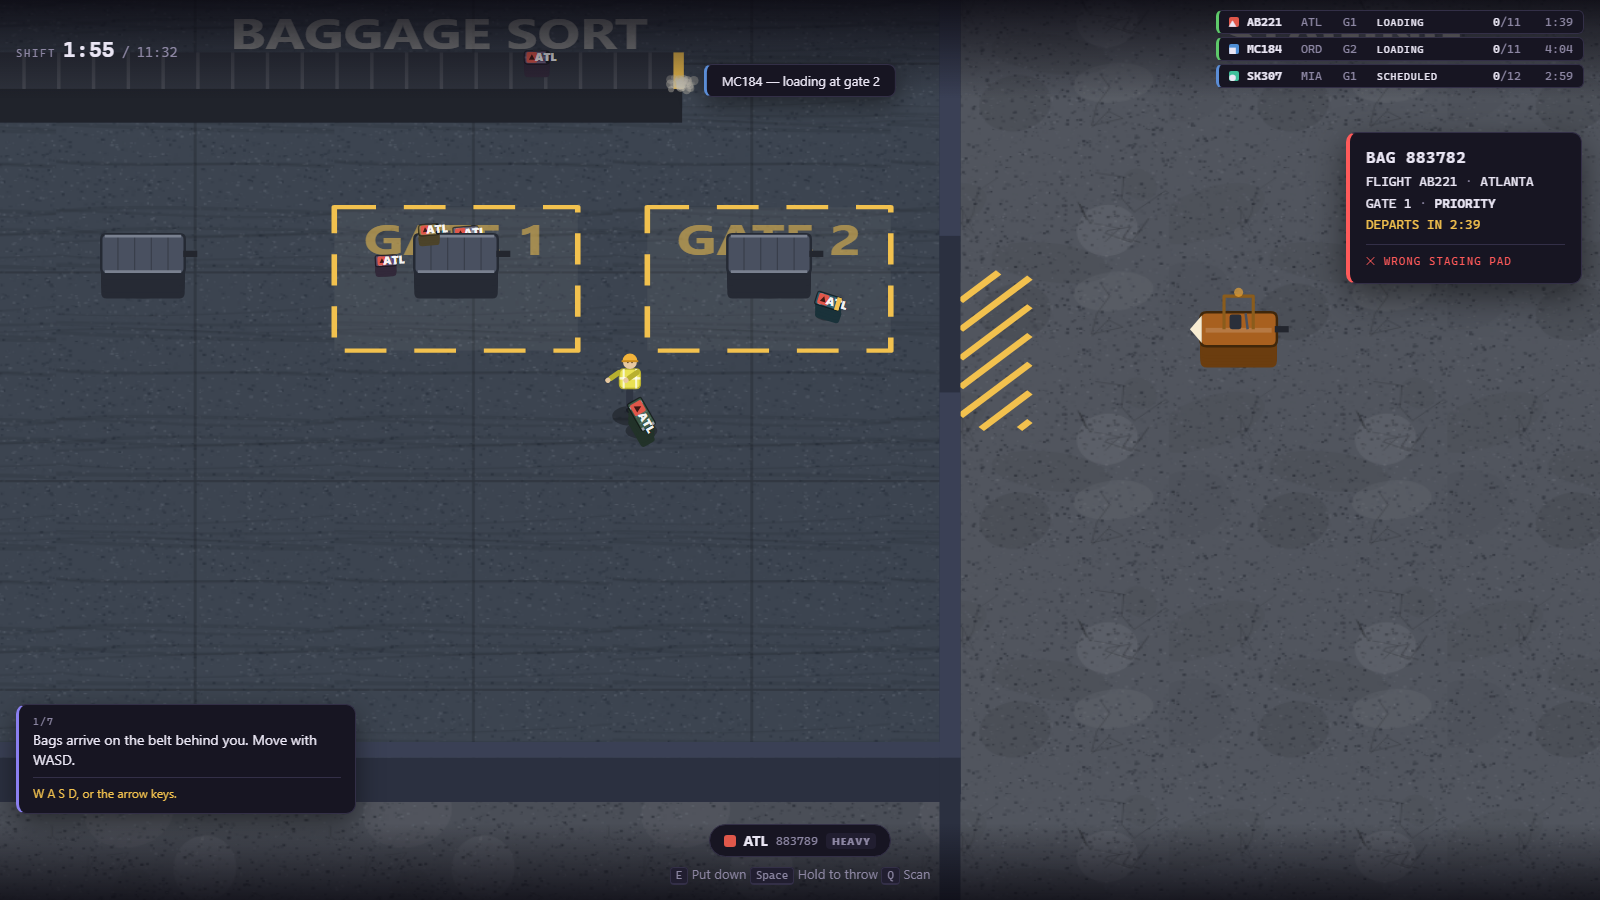
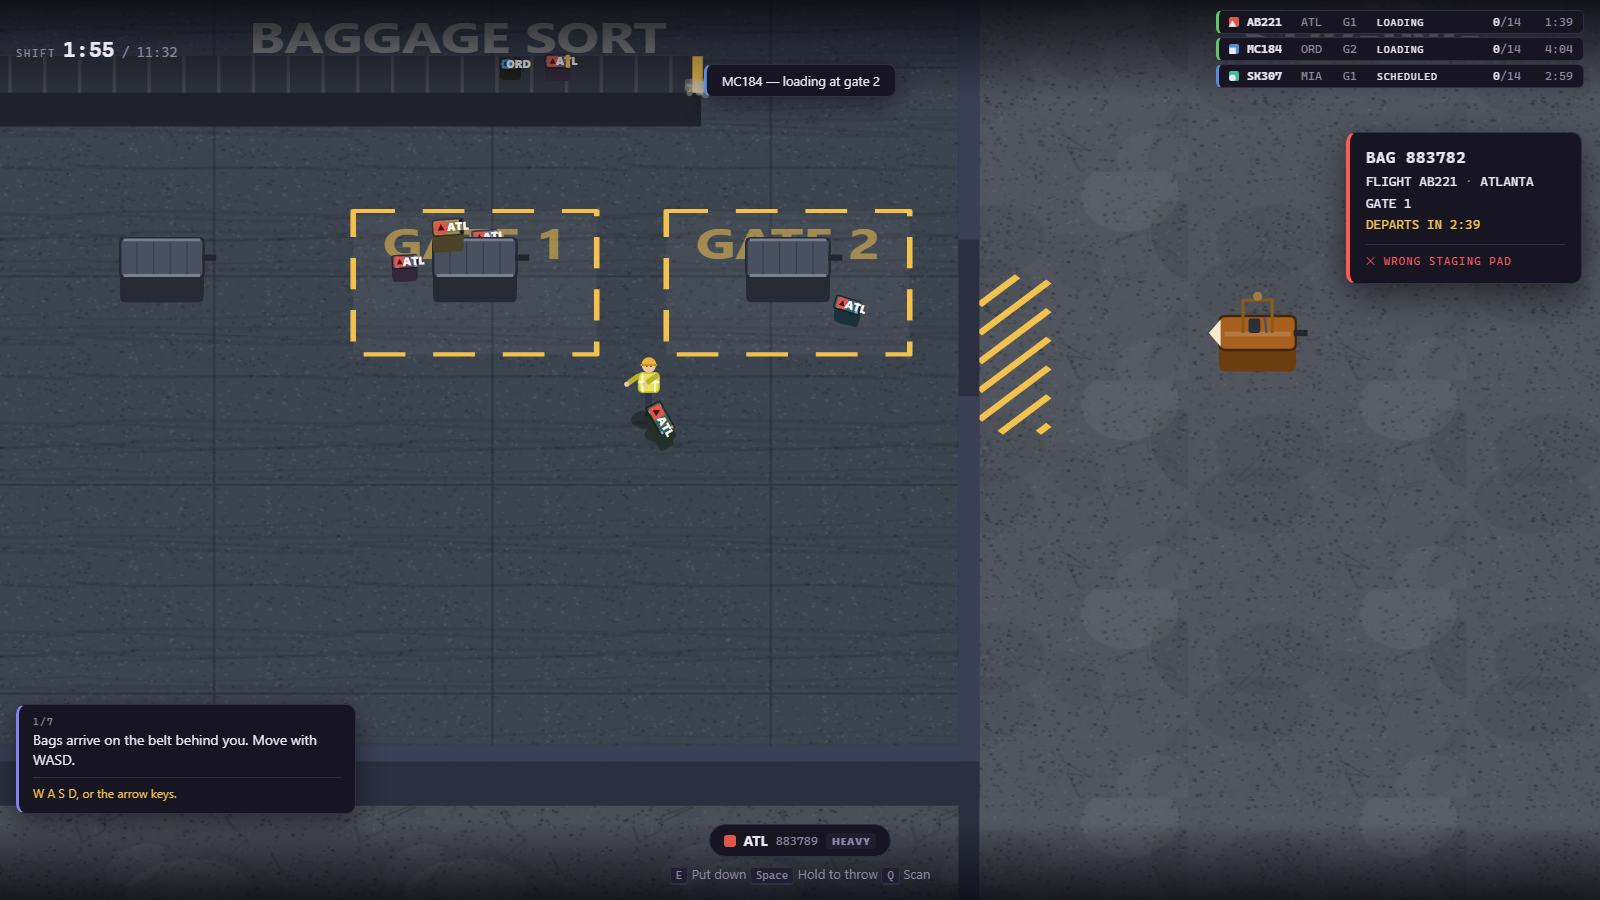
The shift is 42 bags, and the GDD deviation is closed
GDD 20.2 asks for 40-60 bags and 20.4 for 14-18 per flight. The shift was 34
(11/11/12), recorded as a knowing deviation on the grounds that "the route is
what makes 50 impossible, not the count".

What made 50 impossible was the EIGHT-MINUTE SHIFT it was measured in. The same
M6 pass that cut the bags also stretched every flight window by 45% and moved
the shift to 11:32, and never put the bags back. The telemetry has been saying
so ever since and nobody read it that way: the crew stands idle for 284 s of a
692 s shift and the belt never queues past six. There was room.

Measured across three seeds and three skills, with the bot unchanged so the
comparison is like for like:

  bags   novice          average         veteran        dead ends
  34     34% / -2383     79% / +1783     73% / +1233    none
  42     54% /  -700     80% / +2183     63% /  +533    none
  45     43% / -2083     83% / +2767     61% /  +333    none
  48     47% / -1767     83% / +3033     60% /  +283    PRESENT

42 it is, as 14/14/14 - inside 20.4's per-flight range and 20.2's total, so the
deviation is gone rather than merely reported.

Not 45, even though it scores an average crew higher: it costs a first-timer
eleven points of delivery and 1400 points, and three of GDD 29's five open
criteria are about what happens to a first-timer. Not 48 on a rule rather than
a preference - it reintroduces dead ends, and "no known blocker can make a bag
unreachable" is 29.
[…]

diff --git a/src/data/flights.js b/src/data/flights.js
@@ -1,4 +1,4 @@
-/* The authored shift — GDD §20.4.
+/* The authored shift — GDD §20.4.
  *
  * Milestone 1 uses these as STATIC DEFINITIONS only: a bag needs a flight to carry on
  * its tag, and the scanner needs a departure time to count down to. The flight STATE
@@ -22,7 +22,7 @@ export const FLIGHT_DEFS = [
     destinationCode: 'ATL', destinationName: 'Atlanta',
     gateId: 'gate_1', aircraftId: 'aircraft_1',
     tag: { color: '#e0574a', icon: 'triangle' },
-    bagCount: 11,
+    bagCount: 14,
     times: { bagAcceptanceMs: 5000, loadingMs: 30000, finalCallMs: 215000,
              holdClosingMs: 250000, departureMs: 275000 },
     // §20.4 twist: tutorial-friendly first flow — an even trickle, no surprises.
@@ -33,7 +33,7 @@ export const FLIGHT_DEFS = [
     destinationCode: 'ORD', destinationName: 'Chicago',
     gateId: 'gate_2', aircraftId: 'aircraft_2',
     tag: { color: '#4f8fd6', icon: 'square' },
-    bagCount: 11,
+    bagCount: 14,
     times: { bagAcceptanceMs: 85000, loadingMs: 115000, finalCallMs: 360000,
              holdClosingMs: 395000, departureMs: 420000 },
     // §20.4 twist: several heavy bags.
@@ -44,7 +44,7 @@ export const FLIGHT_DEFS = [
     destinationCode: 'MIA', destinationName: 'Miami',
     gateId: 'gate_1', aircraftId: 'aircraft_3',
     tag: { color: '#3fbf9b', icon: 'circle' },
-    bagCount: 12,
+    bagCount: 14,
     // Acceptance is late enough that SK307, which reuses gate 1, arrives after AB221's
     // aircraft is clear of the stand. GDD §20.4 forbids reusing a gate before the
     // prior aircraft clears, and that has to include the taxi in and the pushback, not

diff --git a/tools/m8-tests.js b/tools/m8-tests.js
@@ -219,7 +219,16 @@ async function sectionB() {
 
   // Load it through the real containment API, so the location invariant is never
   // bypassed — this suite proves rendering, and must not manufacture illegal states.
-  const loose = Object.values(st.bagsById).filter((b) => b.location.type === 'floor').slice(0, 4);
+  /*
+   * Drive until there are enough bags on the FLOOR to load, rather than assuming any are
+   * there right now. How many have fallen off the belt by a given moment is a property of
+   * the seed and of the authored bag count — this asserted "at least two" and went red
+   * the day the shift went from 34 bags to 42, having found only one.
+   */
+  const onFloor = () => Object.values(st.bagsById).filter((b) => b.location.type === 'floor');
+  for (let i = 0; i < 60 * 180 && onFloor().length < 4; i++) game.frame(FRAME_MS, null);
+  const loose = onFloor().slice(0, 4);
+  note(`cart load: ${loose.length} bags on the floor at ${(st.simTimeMs / 1000).toFixed(0)}s`);
   let loaded = 0;
   for (const bag of loose) {
     try { moveBag(st, bag, { type: 'cart', id: cart.id }, game.bus, st.simTimeMs); loaded++; }

diff --git a/CLAUDE.md b/CLAUDE.md
@@ -63,10 +63,11 @@ Dev-wide catalog of what already exists and where to copy it from.
   telemetry from it. It found the game unwinnable: 32% delivered and a five-figure
   deficit on every seed at every skill. Three fixes (a loaded cart in reach now beats
   the hold when TAKING a bag; 50 bags → 34; every window +45%, shift 8:07 → 11:32) took
-  a competent crew to **79% and +1850 points**, a careless one to 29% and −2800.
-  (Those are MEDIANS across three seeds. The gating assertions used to run one seed, so a
-  tuning change that shifted seed 12345 by sixteen points would have flipped a claim
-  about the whole game.)
+  a competent crew to 76% and +1633 points, a careless one to 30% and −2467.
+  (Those were single-seed figures. The gating assertions now run three seeds and gate on
+  the median, because a tuning change that shifted seed 12345 by sixteen points would
+  otherwise have flipped a claim about the whole game. **Superseded 2026-08-21** — see
+  the bag-count entry below; the shift is 42 bags now and a competent crew clears 80%.)
   `tools/m6-tests.js` is GDD §29 made executable, with four criteria reported OPEN
   because they need external playtesters. Measured: 124 bags and three loaded carts cost
   0.079 ms per step, 210x frame-budget headroom; zero dead ends and zero unreachable
@@ -84,6 +85,19 @@ Dev-wide catalog of what already exists and where to copy it from.
   `tools/m7-tests.js` for working code no assertion would have missed, and
   `tools/_soak.js` fuzzing every invariant after every step. **1085 assertions, eight
   suites** + `docs/m6-title.png`.
+- 2026-08-21 — **THE RENDERER, THE SUITES, AND THE BAG COUNT.** Three render bugs that had
+  been shipping since M1 and were visible in this repo's own hero images: bags riding the
+  conveyor painted *under* the belt, the aircraft drawn back-to-front, cart bags sliding
+  under the bed. None of the four "the world paints" assertions could catch any of them —
+  each sampled one pixel at the canvas centre, which the ground fill alone satisfies.
+  `tools/m8-tests.js` replaces that with a DIFFERENTIAL (remove one class of thing,
+  re-render, count changed pixels: 0 px before the fix, 1127 after). Then a meta-audit of
+  the suites themselves found ~20 assertions that could not fail and the structural hole
+  that a green suite never proved how many assertions RAN — the runner now enforces a
+  per-suite count. `_soak.js` gained the one verb the fuzzer could not reach and
+  immediately found a real bug: one press of `X` threw a bag off a train standing still.
+  And `tools/_route.js` found the balance instrument cannot drive, which re-opened the bag
+  count and closed the GDD §20.2 deviation at 14/14/14. **1208 assertions, nine suites.**
 
 ## Phase 1 is done. What is actually left
 
@@ -470,22 +484,27 @@ Budget for re-tuning three phases, not for a four-line patch.
 
 ## Deviations from the GDD, and why
 
-- ⚠ **The authored shift is 34 bags; GDD §20.2 asks for 40-60, and §20.4 for 14-18 per
-  flight.** The Milestone 6 balance pass cut 16/16/18 to 11/11/12 because 50 bags was
-  roughly sixteen minutes of work in an eight-minute shift and every run of every seed
-  scored five figures negative. §31.4 grants "exact authored timings and bag counts
-  during balance passes", so this is inside the licence — but it is a real departure
-  from a stated range and §31.1.1 says to report it rather than let it pass unremarked.
-  The route is what makes 50 impossible, not the count: measured, 90% of missed bags are
-  still sitting in a cart and the belt queue never exceeds six.
-  ⚠ **That "the route makes 50 impossible" is now in doubt, and it should not be treated
-  as settled.** The route was measured with a bot that reverses roughly half of every
-  haul (see the Phase 1 section above and `tools\_route.js`), so the trip cost it reports
-  is about twice the real one — and the crew is ALREADY idle 284 s of a 692 s shift,
-  waiting on a belt that never queues more than six. Both of those point the same way:
-  there is room for more bags, and the reason 50 failed may simply be that nobody had a
-  crew that could drive. **Fix the bot, re-measure, and re-open the bag count before
-  accepting this deviation as permanent.**
+- ✅ **RESOLVED 2026-08-21 — the shift is 14/14/14, 42 bags.** It was 34 (11/11/12), which
+  broke GDD §20.2's stated 40-60 and §20.4's 14-18 per flight; the M6 balance pass had cut
+  it from 16/16/18 because 50 bags was sixteen minutes of work in an eight-minute shift.
+  What made 50 impossible was the eight-minute shift, and M6 then stretched every window
+  by 45% without putting the bags back. The telemetry said so plainly and nobody read it
+  that way: the crew was **idle 284 s of a 692 s shift** and the belt never queued past
+  six. Measured across three seeds and three skills, going to 42:
+
+  | bags | novice | average | veteran | dead ends |
+  |---|---|---|---|---|
+  | 34 | 34% / −2383 | 79% / +1783 | 73% / +1233 | none |
+  | **42** | **54% / −700** | **80% / +2183** | 63% / +533 | none |
+  | 45 | 43% / −2083 | 83% / +2767 | 61% / +333 | none |
+  | 48 | 47% / −1767 | 83% / +3033 | 60% / +283 | **present** |
+
+  42 is the pick and 45 is not, even though 45 scores an average crew higher: it costs a
+  first-timer 11 points of delivery and 1400 points, and GDD §29's open criteria are about
+  a first-timer completing the loop. **48 is out on a rule, not a preference** — it
+  reintroduces dead ends, and "no known blocker can make a bag unreachable" is §29.
+  An average crew now delivers 33.6 bags where it delivered 26.9: a quarter more work
+  done, for more points, with the same instrument.
 
 - **§21.1 "runs by opening `index.html`" is impossible with ES modules** (CORS blocks
   module loads on `file://`). Modules won because §21.2's whole architecture rests on

diff --git a/README.md b/README.md
@@ -15,15 +15,24 @@ serves them over http, which is the one thing the game needs (see below).
 
 **Current state: Phase 1 feature-complete, plus a hardening pass and an audit of the
 tests themselves. 1208 assertions green across nine suites.**
-Three flights, thirty-four bags, eleven and a half minutes. Bags arrive on a conveyor, get
+Three flights, forty-two bags, eleven and a half minutes. Bags arrive on a conveyor, get
 sorted into marked carts, hauled to a gate behind a tractor, and loaded into an aircraft
 hold — and the aircraft leave on the clock whether you are ready or not. The shift ends
 with a report telling you exactly what you managed, and a button to try again.
 
-A competent crew now clears about three quarters of the shift and finishes in credit;
-a careless one goes backwards. That is the Milestone 6 balance pass, and every number
-behind it was measured by a bot playing through the real keyboard path rather than
-guessed.
+A competent crew now clears four fifths of the shift and finishes in credit; a careless
+one goes backwards. Every number behind that was measured by a bot playing through the
+real keyboard path rather than guessed.
+
+The shift **used to be thirty-four bags**, which broke the GDD's own stated range of
+40–60. The balance pass that cut it had also stretched every flight window by 45% and
+never put the bags back, and the telemetry said so plainly for months without anyone
+reading it that way: the crew stood **idle for 284 seconds of a 692-second shift**, and
+the belt never queued more than six. Forty-two is measured better on both counts that
+matter — a first-timer goes from 34% to 54%, a competent crew from +1783 points to +2183
+— and it is the last count that still leaves zero dead ends. Forty-eight scores an
+average crew higher and is out anyway, because it makes bags unreachable and that is a
+GDD §29 rule rather than a preference.
 
 ![The shift report at the end of a played shift](docs/m6-report.png)
 
@@ -237,7 +246,7 @@ no program can stand in for a person:
 - pressure comes from overlapping simple work, not confusing controls
 
 The closest a test gets is section D, which plays whole shifts with a bot driving the
-real input path. It shows a competent crew clearing 79% and finishing in credit, and a
+real input path. It shows a competent crew clearing 80% and finishing in credit, and a
 careless one going backwards — but it cannot tell you whether the game *teaches* that.
 
 ## What the suites measure
@@ -285,16 +294,16 @@ through the real input path, three seeds each:
 
 | | |
 |---|---|
-| A competent crew | 79% of bags delivered, +1850 points (median of 3 seeds) |
-| A careless one | 29%, −2800 points (median of 3 seeds) |
-| Before the balance pass | 32% and −4000 points, on every seed, at every skill |
-| The authored shift | 34 bags across 3 flights, 11:32 |
-| Time to first bag aboard | 182 s |
-| Distance per shift | 670 m walked, 1039 m driven |
+| A competent crew | 80% of bags delivered, +2183 points (mean of 3 seeds) |
+| A careless one | 54%, −700 points (mean of 3 seeds) |
+| Before the M6 balance pass | 32% and −4000 points, on every seed, at every skill |
+| The authored shift | 42 bags across 3 flights (14 each), 11:32 |
+| Time to first bag aboard | 172 s |
+| Distance per shift | 657 m walked, 1029 m driven |
 | 124 bags and three loaded carts | 0.079 ms per step — 210x frame-budget headroom |
 | Bags stranded out of reach | 0 |
-| Queue depth | peaks at 6 bags waiting, mean 1.3 |
-| Where missed bags end up | 90% still sitting in a cart, 10% loose on the floor |
+| Queue depth | peaks at 10 bags waiting, mean 2.3 |
+| Where missed bags end up | 100% still sitting in a cart |
 | Fuzzing | 21 shifts, 221 min simulated, 0 errors, 0 invariant violations |
 | ⚠ Tractor top speed, throttle held | **7.00 m/s** — what the vehicle does |
 | ⚠ …what the bot manages over 52 m of empty ramp | **4.16 m/s**, reversing 69% of the way |
@@ -363,7 +372,7 @@ one writer of a bag location) and `baggageFlow.js` (spawning and loose-bag movem
   reported OPEN by the m6 suite rather than assumed green — see *Phase 1 acceptance*
   above. Everything a program can check does pass; whether the game *teaches* what it
   needs to is the one thing still genuinely unknown, and it is the top of the list.
-- **The balance is one bot's opinion.** 79% for a competent crew is measured, but it is
+- **The balance is one bot's opinion.** 80% for a competent crew is measured, but it is
   measured against a policy I wrote: park the train on the hold door, fill one cart at the
   belt, one flight at a time, **and tow one cart at a time**. That last one matters most.
   The game has supported trains of up to sixteen carts since Milestone 2 — the m2 suite
@@ -379,7 +388,7 @@ one writer of a bag location) and `baggageFlow.js` (spawning and loose-bag movem
   gets picked straight back up. Never shedding at all leaves the first cart coupled
   forever and drops the run count to one. Multi-cart hauling needs a genuinely different
   cart-management design **in the bot**, which is instrument work rather than game work.
-  **The number to beat is 79%.**
+  **The number to beat is 80%.**
 - **Spill tuning is still provisional.** A full-lock circle at top speed empties a cart.
   The bot sheds about four bags a shift and takes 23 corners above the safe speed, so it
   is not free — but nobody has decided whether that is the right price.
